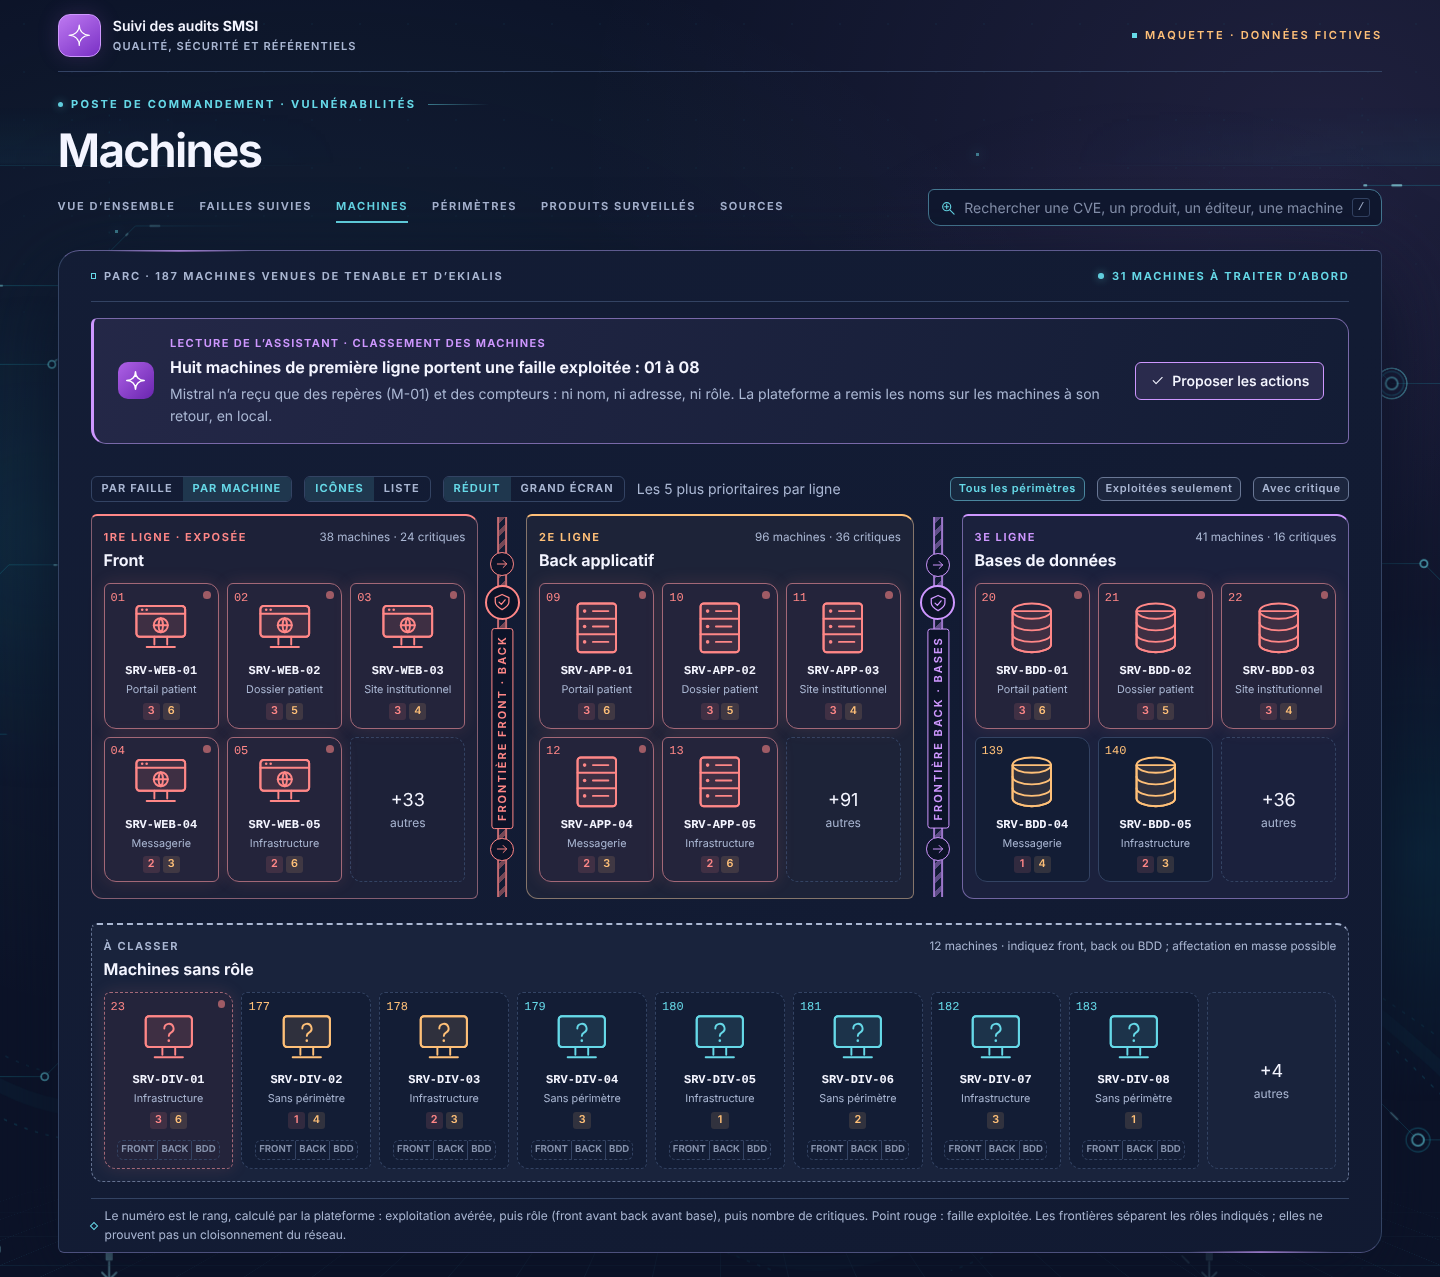
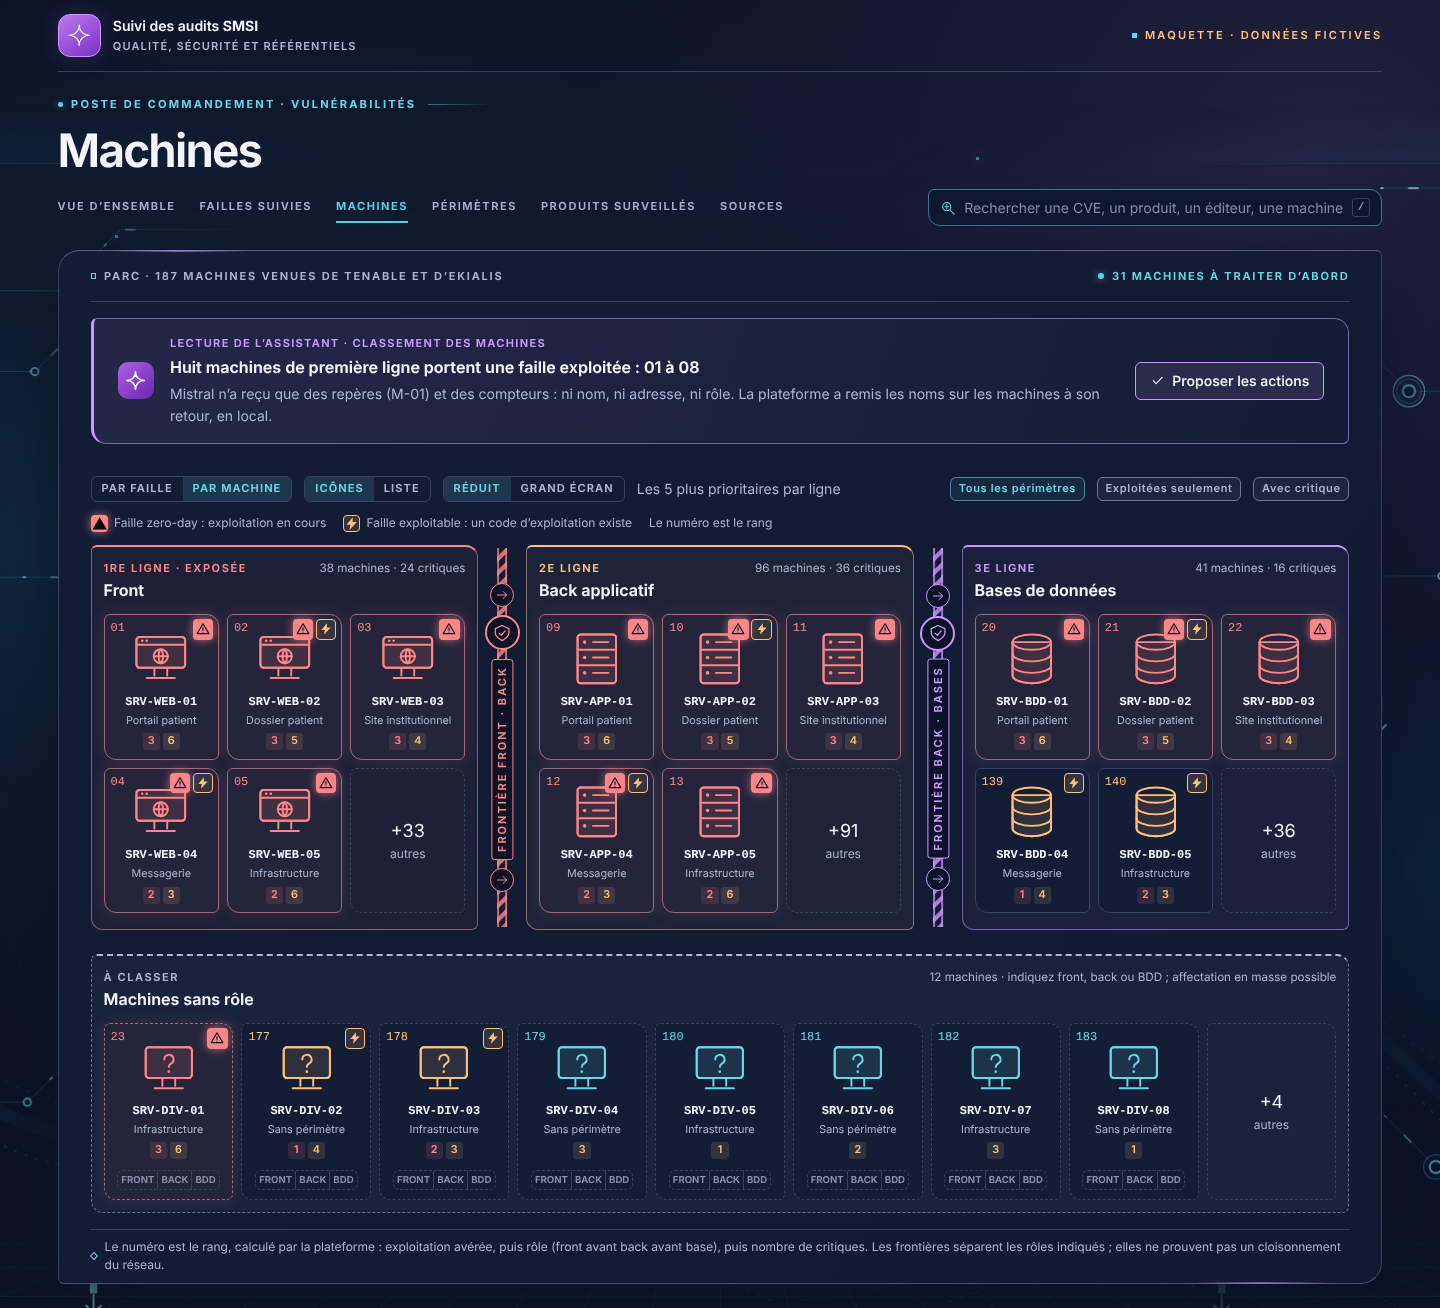
docs(vulnerabilites): marques zero-day et faille exploitable sur les machines et les failles
Demande du RSSI du 15/11/2026 : un avertissement sur une machine qui porte une
faille zero-day, une icône propre aux failles exploitables. Maquettes et
ADR 0100 complétées ; définition du zero-day laissée en point ouvert.

Session : « Module surveillance vulnérabilités SMSI » (session_01EnWdzdnc8fBi6Yrc154Jy6)

Claude-Session: https://claude.ai/code/session_01EnWdzdnc8fBi6Yrc154Jy6

diff --git a/docs/adr/0100-module-vulnerabilites.md b/docs/adr/0100-module-vulnerabilites.md
@@ -163,7 +163,10 @@
     dans ce calcul local et ne sort pas du serveur (V14). La vue par machine montre des icônes de machines rangées par ligne,
     avec une **frontière visible** entre le front et le back, puis entre le back et les bases ; ces frontières séparent les
     rôles indiqués et ne prouvent pas un cloisonnement du réseau. Deux modes : **réduit**, qui ne garde que les machines les
-    plus prioritaires de chaque ligne, et **grand écran**, qui montre tout le parc.
+    plus prioritaires de chaque ligne, et **grand écran**, qui montre tout le parc. Deux marques s'affichent sur une machine et sur une faille : un **avertissement** pour une
+    faille **zero-day** (exploitation en cours) et une **icône d'éclair** pour une faille **exploitable** (un code
+    d'exploitation existe, d'après le champ `exploitAvailable` de Tenable, sans exploitation observée). La définition exacte
+    du zero-day reste à arrêter (point ouvert).
 
 17. **Vue par périmètre** (V12). Pour un périmètre, deux présentations : **globale**, toutes les machines ensemble ; **par
     ligne**, le front en première ligne, relié au back applicatif, lui-même relié aux bases de données. Les liens sont
@@ -230,3 +233,5 @@
 8. Adresses IP : affichées dans les vues, ou seulement rangées ?
 9. Nom du périmètre d'une machine : transmis au modèle avec son repère, ou gardé en local comme le rôle (proposé) ?
 10. Durée de vie des repères : renouvelés à chaque échange avec le modèle (proposé), ou stables d'un échange à l'autre ?
+11. Zero-day : toute faille dont l'exploitation est avérée (proposé), ou seulement celles sans correctif publié ?
+12. Fenêtre d'alerte critique : au niveau 4 seulement (proposé), ou dès le niveau 3 (exploitée, produit à confirmer) ?

diff --git a/docs/unification/CADRAGE-MODULE-VULNERABILITES.md b/docs/unification/CADRAGE-MODULE-VULNERABILITES.md
@@ -94,7 +94,7 @@ additive éventuelle, les droits serveur, les tests et la documentation. Une PR 
 
 ## 5. Ce qu'il faut du RSSI
 
-- **V0** : la validation de l'ADR 0100 et la réponse à ses dix points ouverts.
+- **V0** : la validation de l'ADR 0100 et la réponse à ses douze points ouverts.
 - **V5** : Tenable Security Center est en version **6.9** (indiqué le 15/11/2026) ; un compte **en lecture seule** et ses clés d'API,
   saisies dans l'interface et jamais communiquées à une session ; une instance de recette
   joignable par l'exécutant, ou des **exemples de réponses anonymisés** (aucun nom de machine ni adresse réels : le dépôt est
